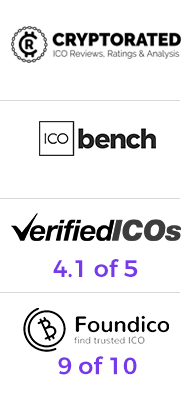
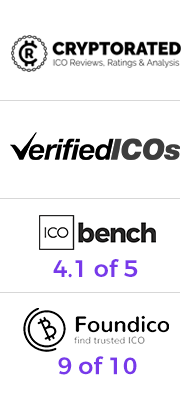
update ratings img/media

Changed region(s): [[0.0306, 0.0608, 0.949, 0.1823], [0.0612, 0.3038, 0.9184, 0.4253], [0.0612, 0.5165, 0.9184, 0.638]]

diff --git a/tokensale/index.html b/tokensale/index.html
@@ -113,6 +113,7 @@
 					width: 150px;
 					left: 0;
 					top: 230px;
+					z-index: 10;
 				}
 
 				#ratingsBadge:hover{
@@ -943,7 +944,9 @@
 						<a href="#myModal" data-toggle="modal">
 							<img style="width: 300px; margin-top: 30px; margin-bottom: 0px;" src="../COINTOKEN-HOME_files/creditcoinvideo.png">
 						</a>
-						<img id="ratingsBadgeMobile" src="../COINTOKEN-HOME_files/ratings1.png"/>
+						<a href="https://cointoken.io/tokensale/#media">
+							<img id="ratingsBadgeMobile" src="../COINTOKEN-HOME_files/ratings1.png"/>
+						</a>
 						<h2>The Creditcoin token pre-sale begins in:</h2>
 						<div class="countdown-b">
 							<script type="text/javascript">
